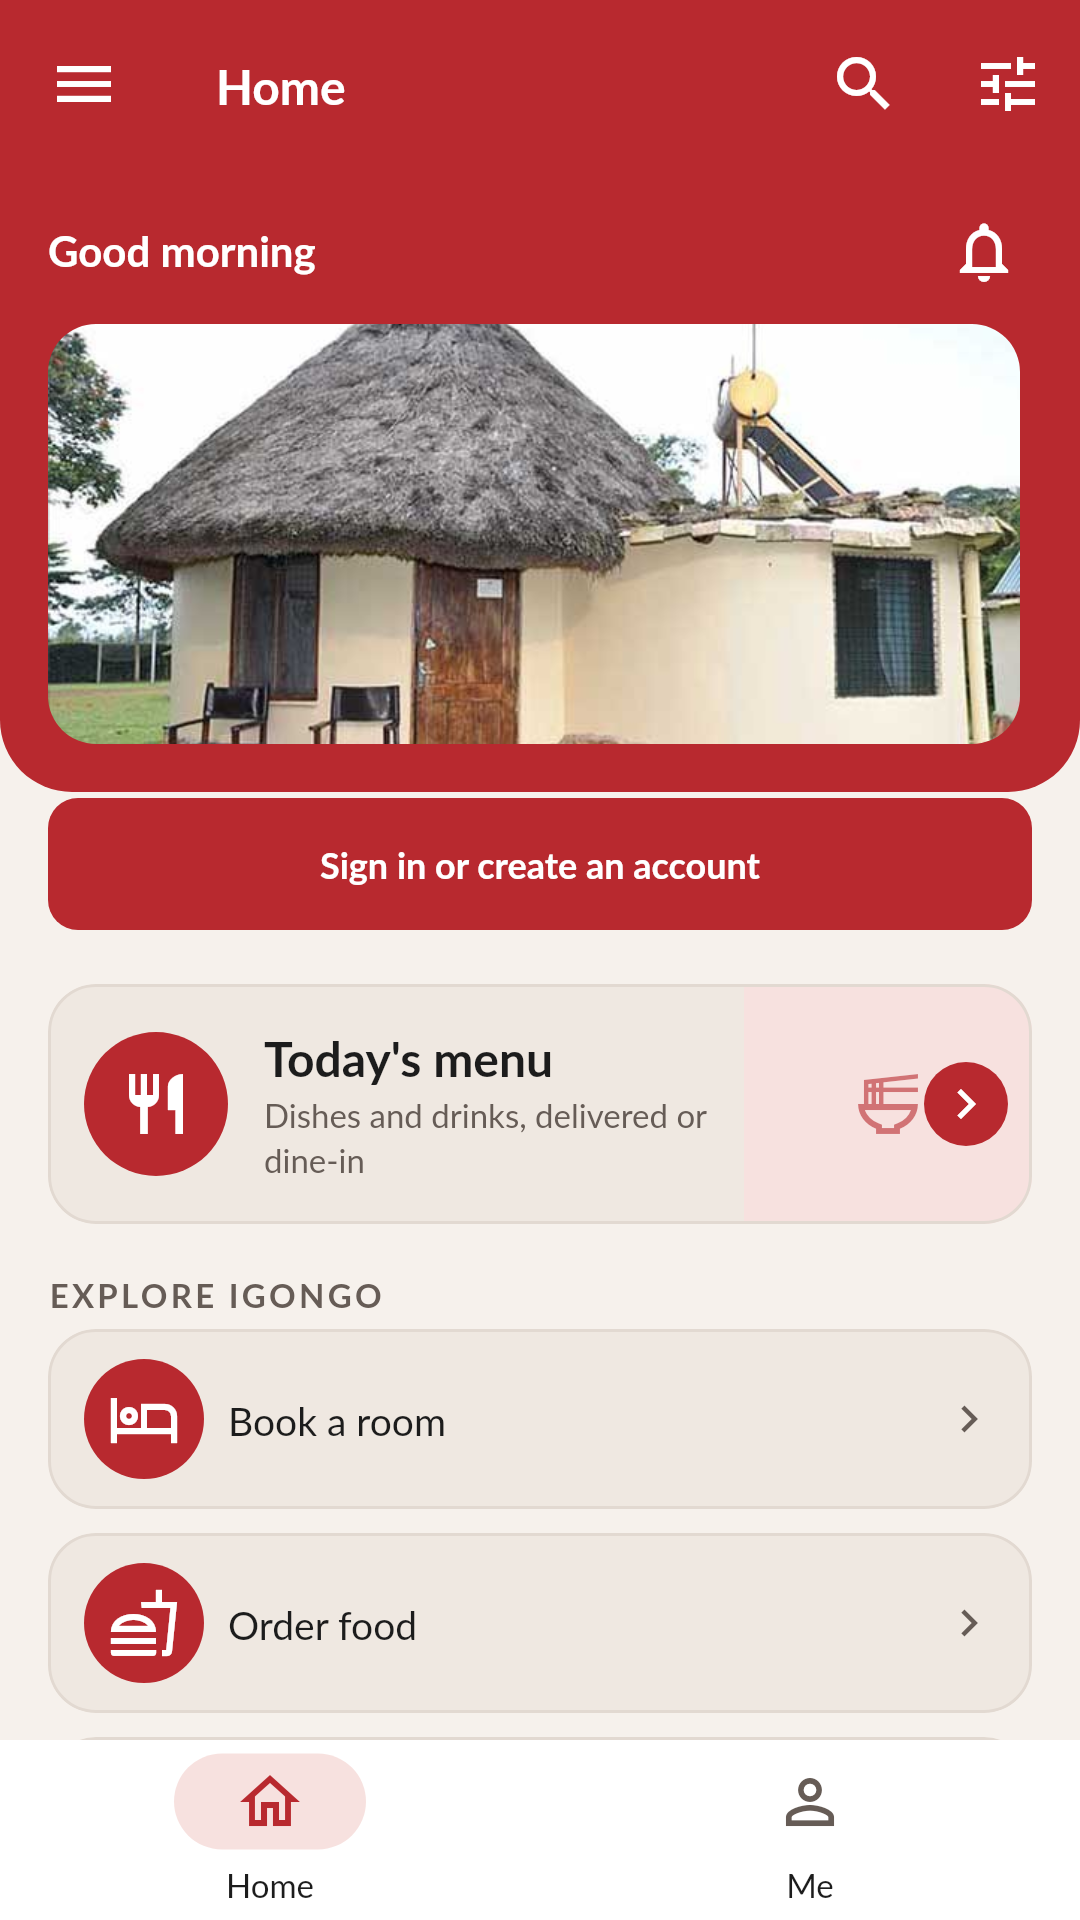
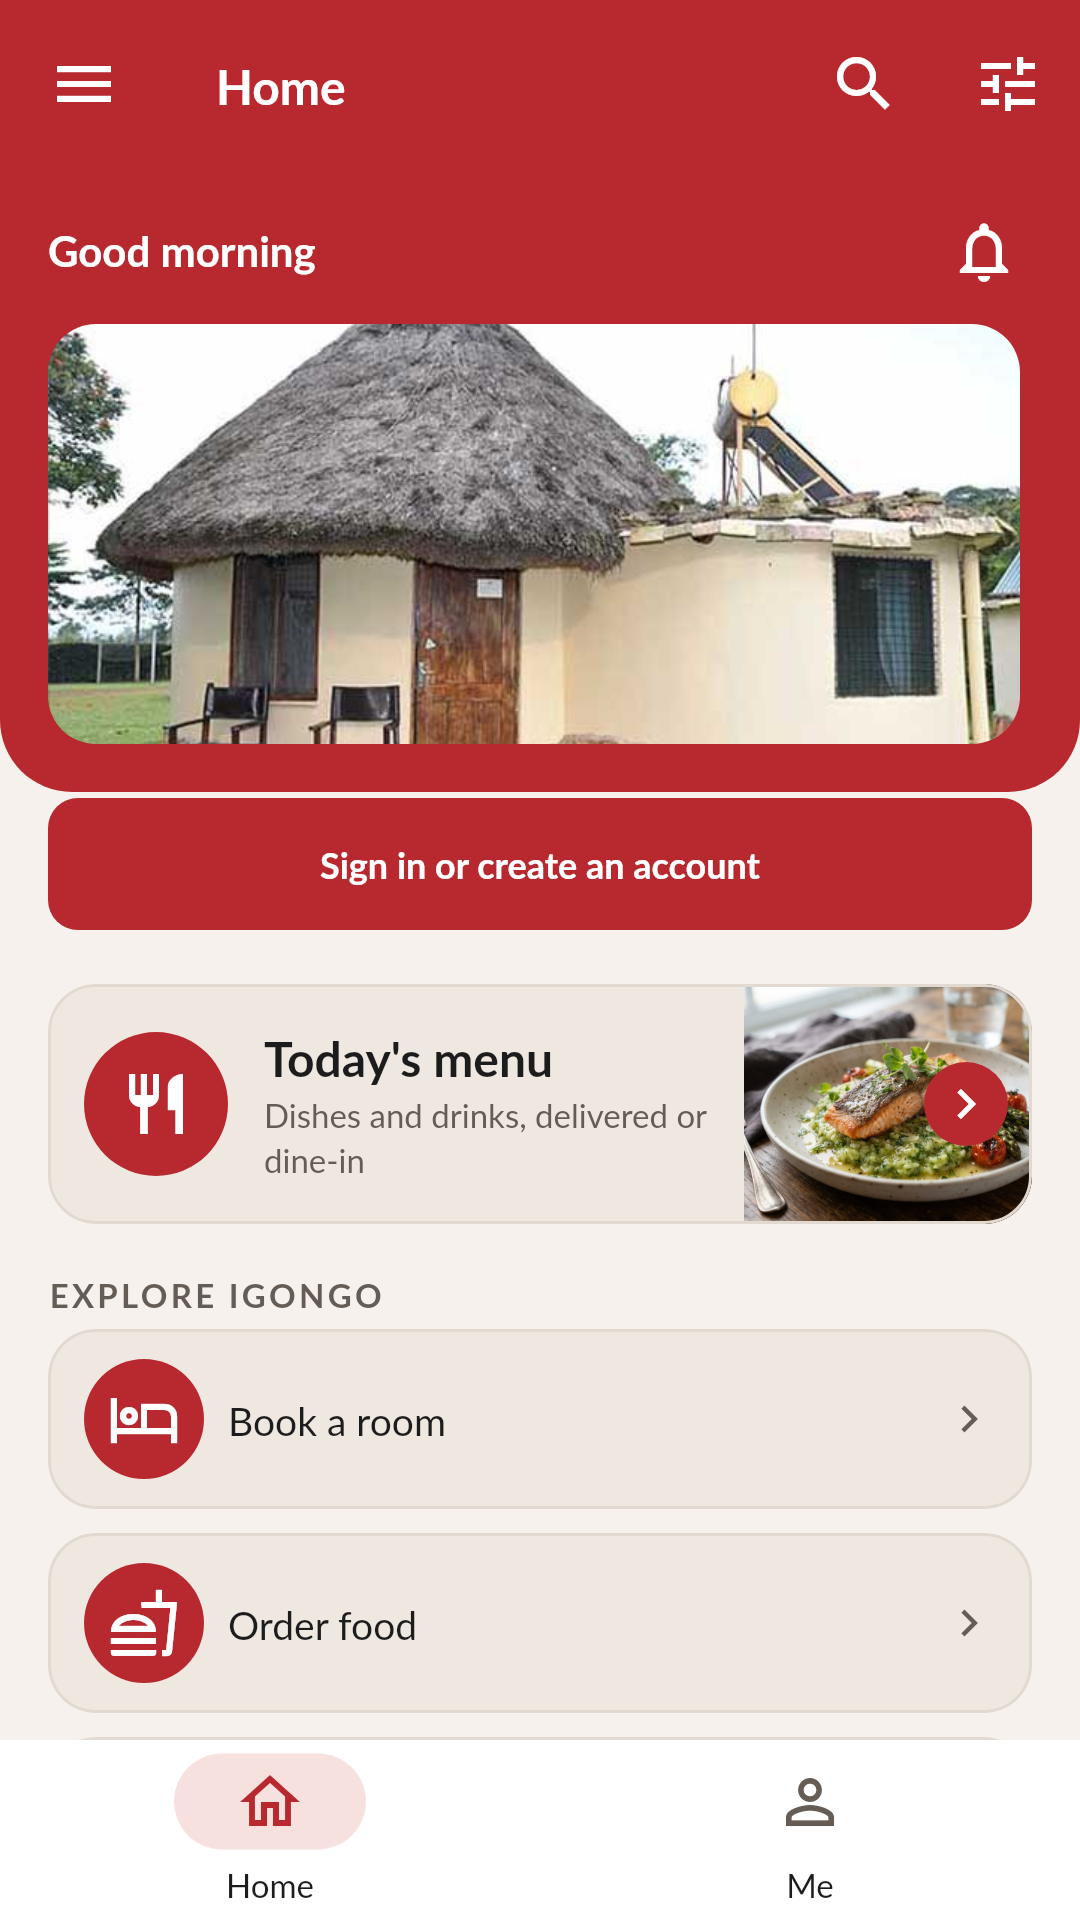
Photos: food dish, standard and deluxe room, restaurant outlet
Claude-Session: https://claude.ai/code/session_016ozUvfeqC2y2VYLAZ5SxXM

Changed region(s): [[0.6722, 0.5, 0.9778, 0.6562]]

diff --git a/apps/igongo/lib/shared/ui/photo/guest_photos.dart b/apps/igongo/lib/shared/ui/photo/guest_photos.dart
@@ -6,8 +6,8 @@
 //
 // Pictures the hotel must send:
 //  * banner: the owner's round thatched hut (now set: assets/photos/igongo-hut.jpg).
-//  * food: a plate of the restaurant's food (wide, 3:2).
-//  * roomStandard, roomDeluxe, roomExecutive: one photo of each room type (wide, 3:2).
+//  * food: set (assets/photos/food-dish.jpg, a placeholder dish from the owner).
+//  * roomStandard, roomDeluxe: set. roomExecutive: still needed (a bedroom, not a meeting room).
 
 import 'package:material_ui/material_ui.dart';
 
@@ -21,15 +21,19 @@ abstract final class GuestPhotos {
   static const Alignment bannerAlignment = Alignment(0, -0.3);
 
   /// The photo on the Food shop card.
-  static const String? food = null;
+  static const String food = 'assets/photos/food-dish.jpg';
 
   /// Room photos for the room booking screens (not shown yet: the screens use
   /// placeholders until these are set and the screens read them).
-  static const String? roomStandard = null;
+  static const String roomStandard = 'assets/photos/room-standard.jpg';
 
   /// The deluxe room photo.
-  static const String? roomDeluxe = null;
+  static const String roomDeluxe = 'assets/photos/room-deluxe.jpg';
 
   /// The executive room photo.
   static const String? roomExecutive = null;
+
+  /// The restaurant outlet's photo (shown on the demo outlet's shop row; real
+  /// outlets have no photo field yet).
+  static const String outletRestaurant = 'assets/photos/outlet-restaurant.jpg';
 }

diff --git a/apps/igongo/lib/modules/m62_food_ordering/presentation/order_food_screen.dart b/apps/igongo/lib/modules/m62_food_ordering/presentation/order_food_screen.dart
@@ -18,6 +18,7 @@ import '../../../shared/ui/guest/guest_chip_row.dart';
 import '../../../shared/ui/guest/guest_product_card.dart';
 import '../../../shared/ui/guest/guest_search_header.dart';
 import '../../../shared/ui/guest/guest_shop_row.dart';
+import '../../../shared/ui/photo/guest_photos.dart';
 import '../../../shared/ui/section/section_header.dart';
 import '../application/cart_controller.dart';
 import '../application/orders_providers.dart';
@@ -122,6 +123,7 @@ class OrderFoodScreen extends ConsumerWidget {
                             detail: 'Open for app orders',
                             badges: badgesOf(o),
                             selected: o.key == outlet,
+                            photo: isDemoOutlet(o.key) ? GuestPhotos.outletRestaurant : null,
                             onTap: () {
                               ref.read(menuCategoryProvider.notifier).set(null);
                               ref.read(cartProvider.notifier).useOutlet(o.key);

diff --git a/docs/WAIT-LIST.md b/docs/WAIT-LIST.md
@@ -66,7 +66,7 @@ Slots without a photo show a plain placeholder icon. To swap one: put the file i
 | Slot | Shows on | Photo needed | Status |
 |---|---|---|---|
 | `banner` | Guest home header, first slide | Wide photo of the hut (shoot 16:9, hut centred) | Done: `igongo-hut.jpg` (owner's photo, 650 px wide; a larger original would be sharper) |
-| `food` | Today's menu card, guest home | One appetising dish (3:2) | Needed |
-| `roomStandard`, `roomDeluxe`, `roomExecutive` | Room booking screens | One photo per room type (3:2) | Needed; screens not wired yet |
-| Outlet photos | Shop rows on the Food screen | One per outlet, e.g. restaurant, bar, pool bar (square, 600 px) | Needed; no photo field on outlets yet |
+| `food` | Today's menu card, guest home | One appetising dish (3:2) | Done: `food-dish.jpg` (placeholder dish from the owner) |
+| `roomStandard`, `roomDeluxe`, `roomExecutive` | Room booking screens | One photo per room type (3:2) | Standard and deluxe saved; executive still needed (the image sent was a meeting room, not a bedroom); screens not wired yet |
+| Outlet photos | Shop rows on the Food screen | One per outlet, e.g. restaurant, bar, pool bar (square, 600 px) | Restaurant saved (shows on the demo outlet only); the others needed; no photo field on outlets yet |
 | Dish photos | Dish grid, carousel, item page | One per dish (3:2, dish centred) | Needed; the menu has no photo field yet (module 61 and the menu API need one first) |
